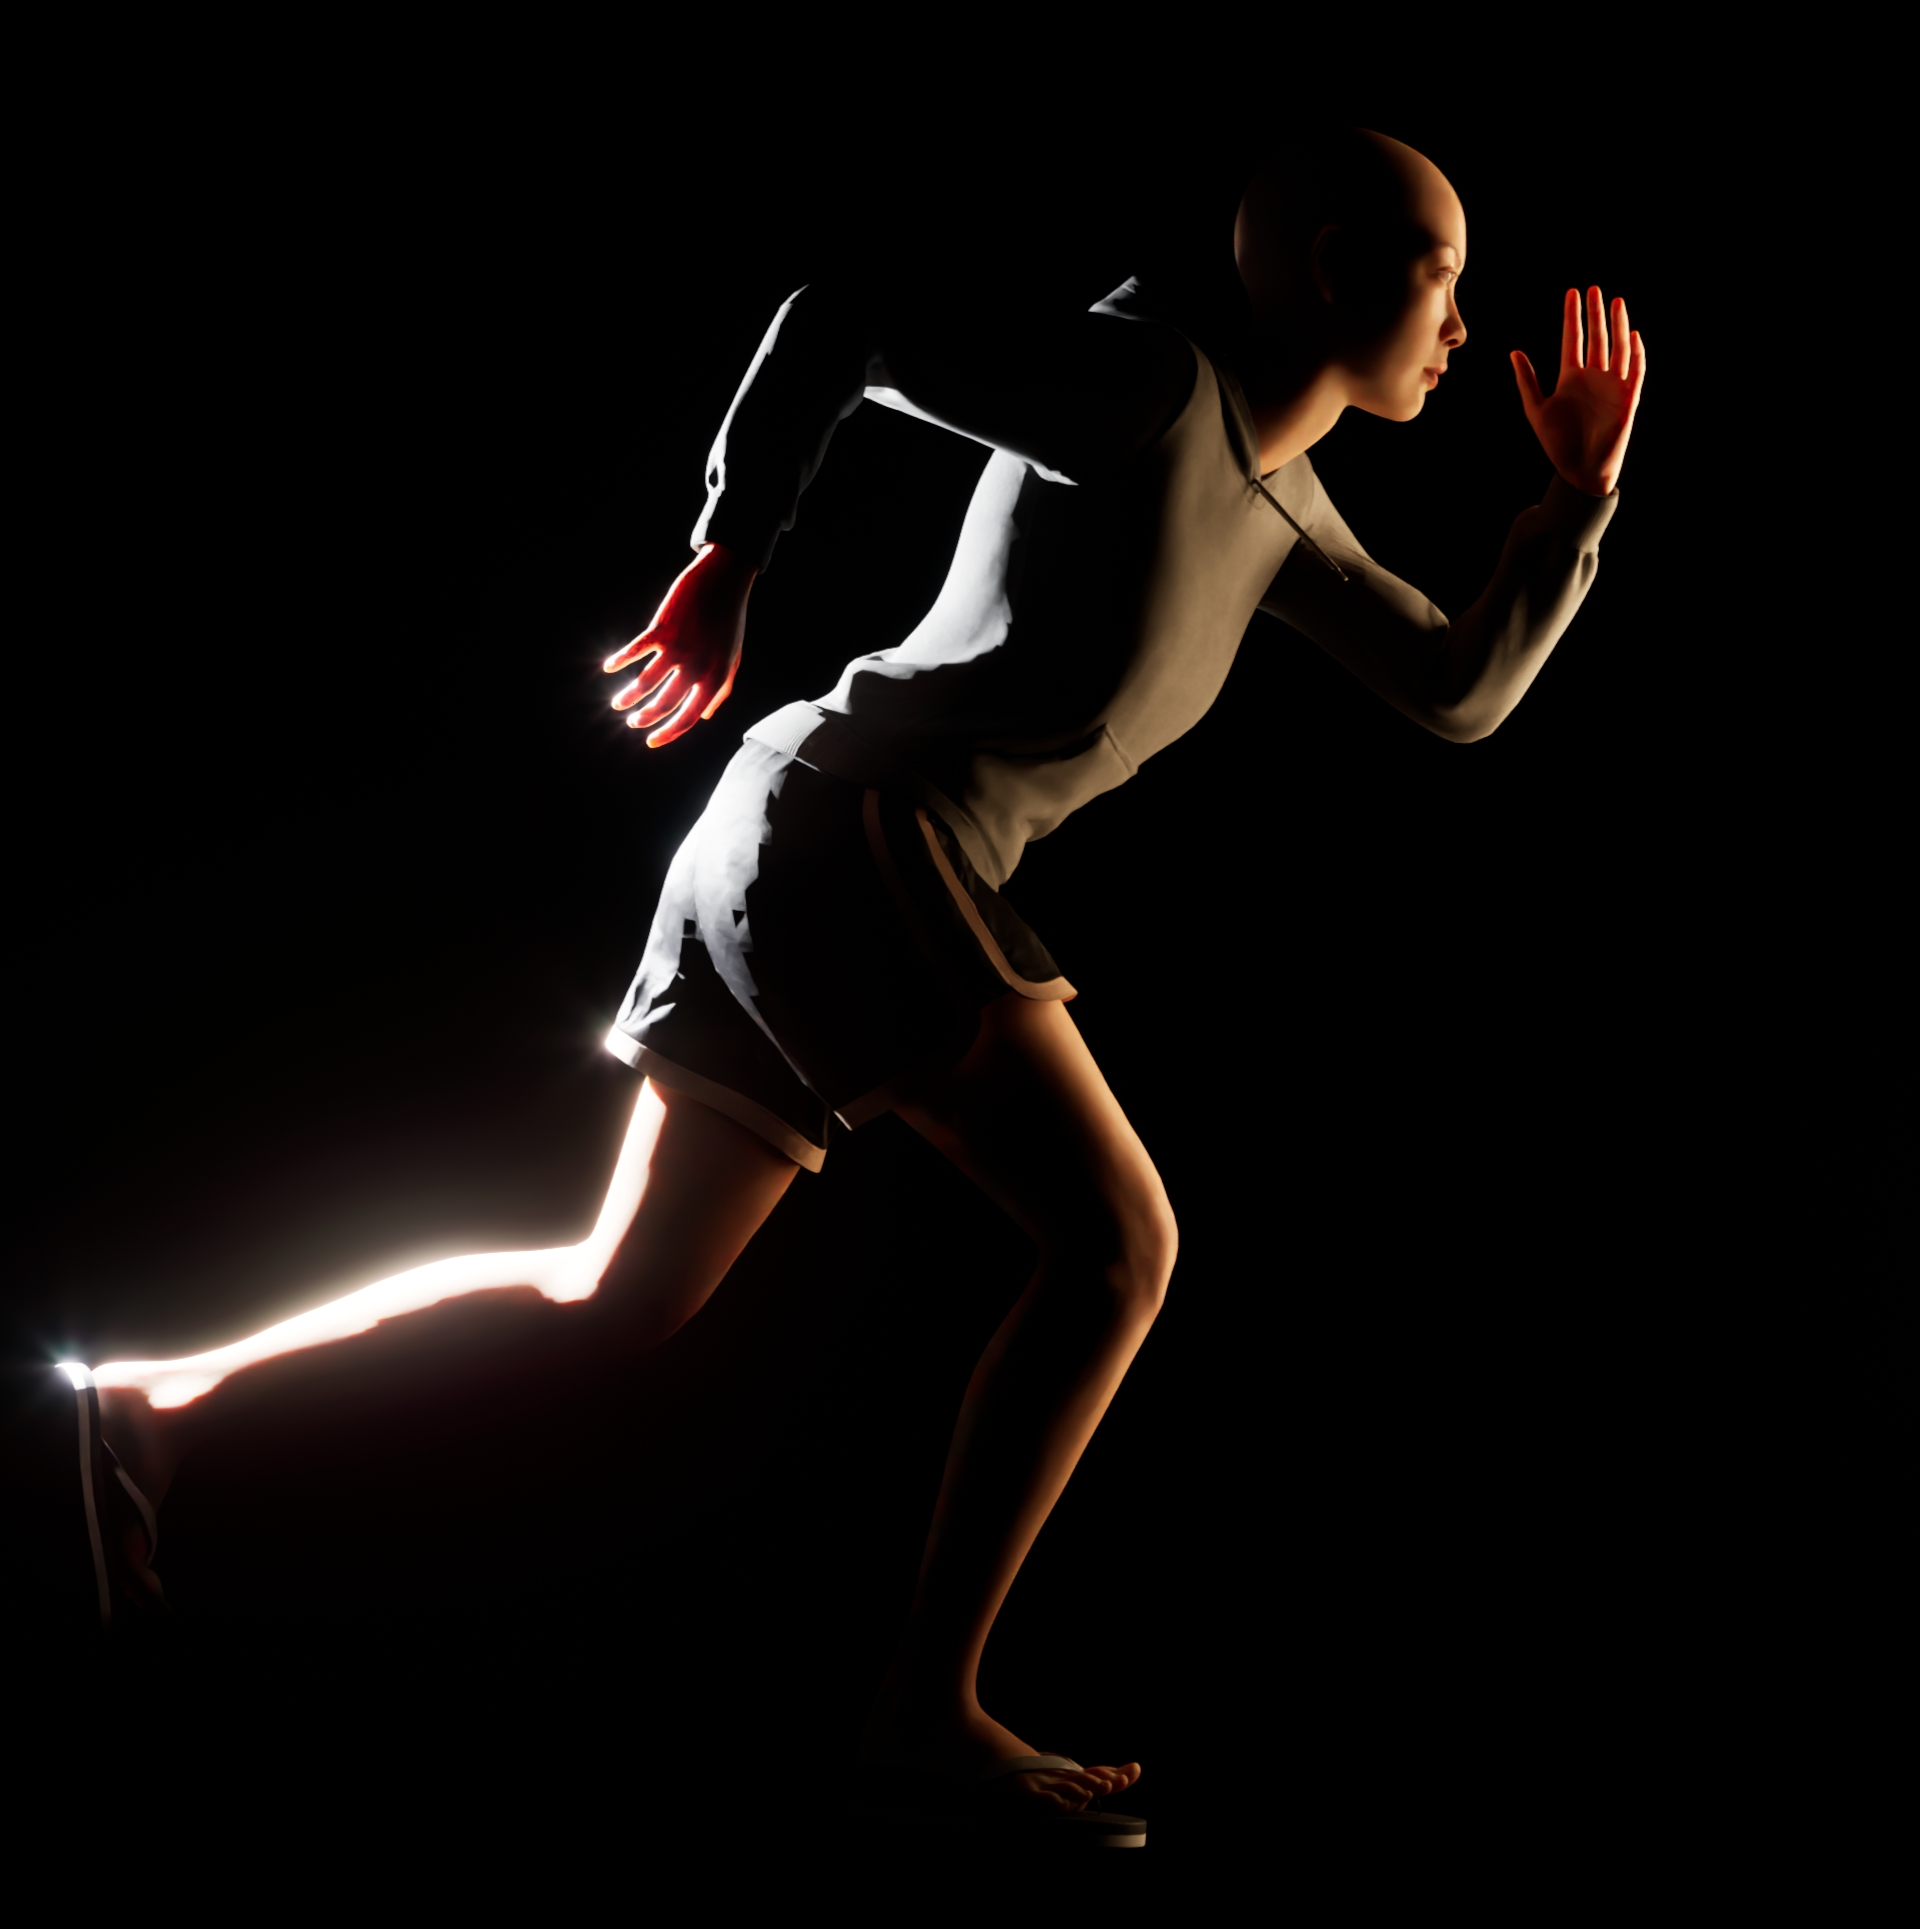
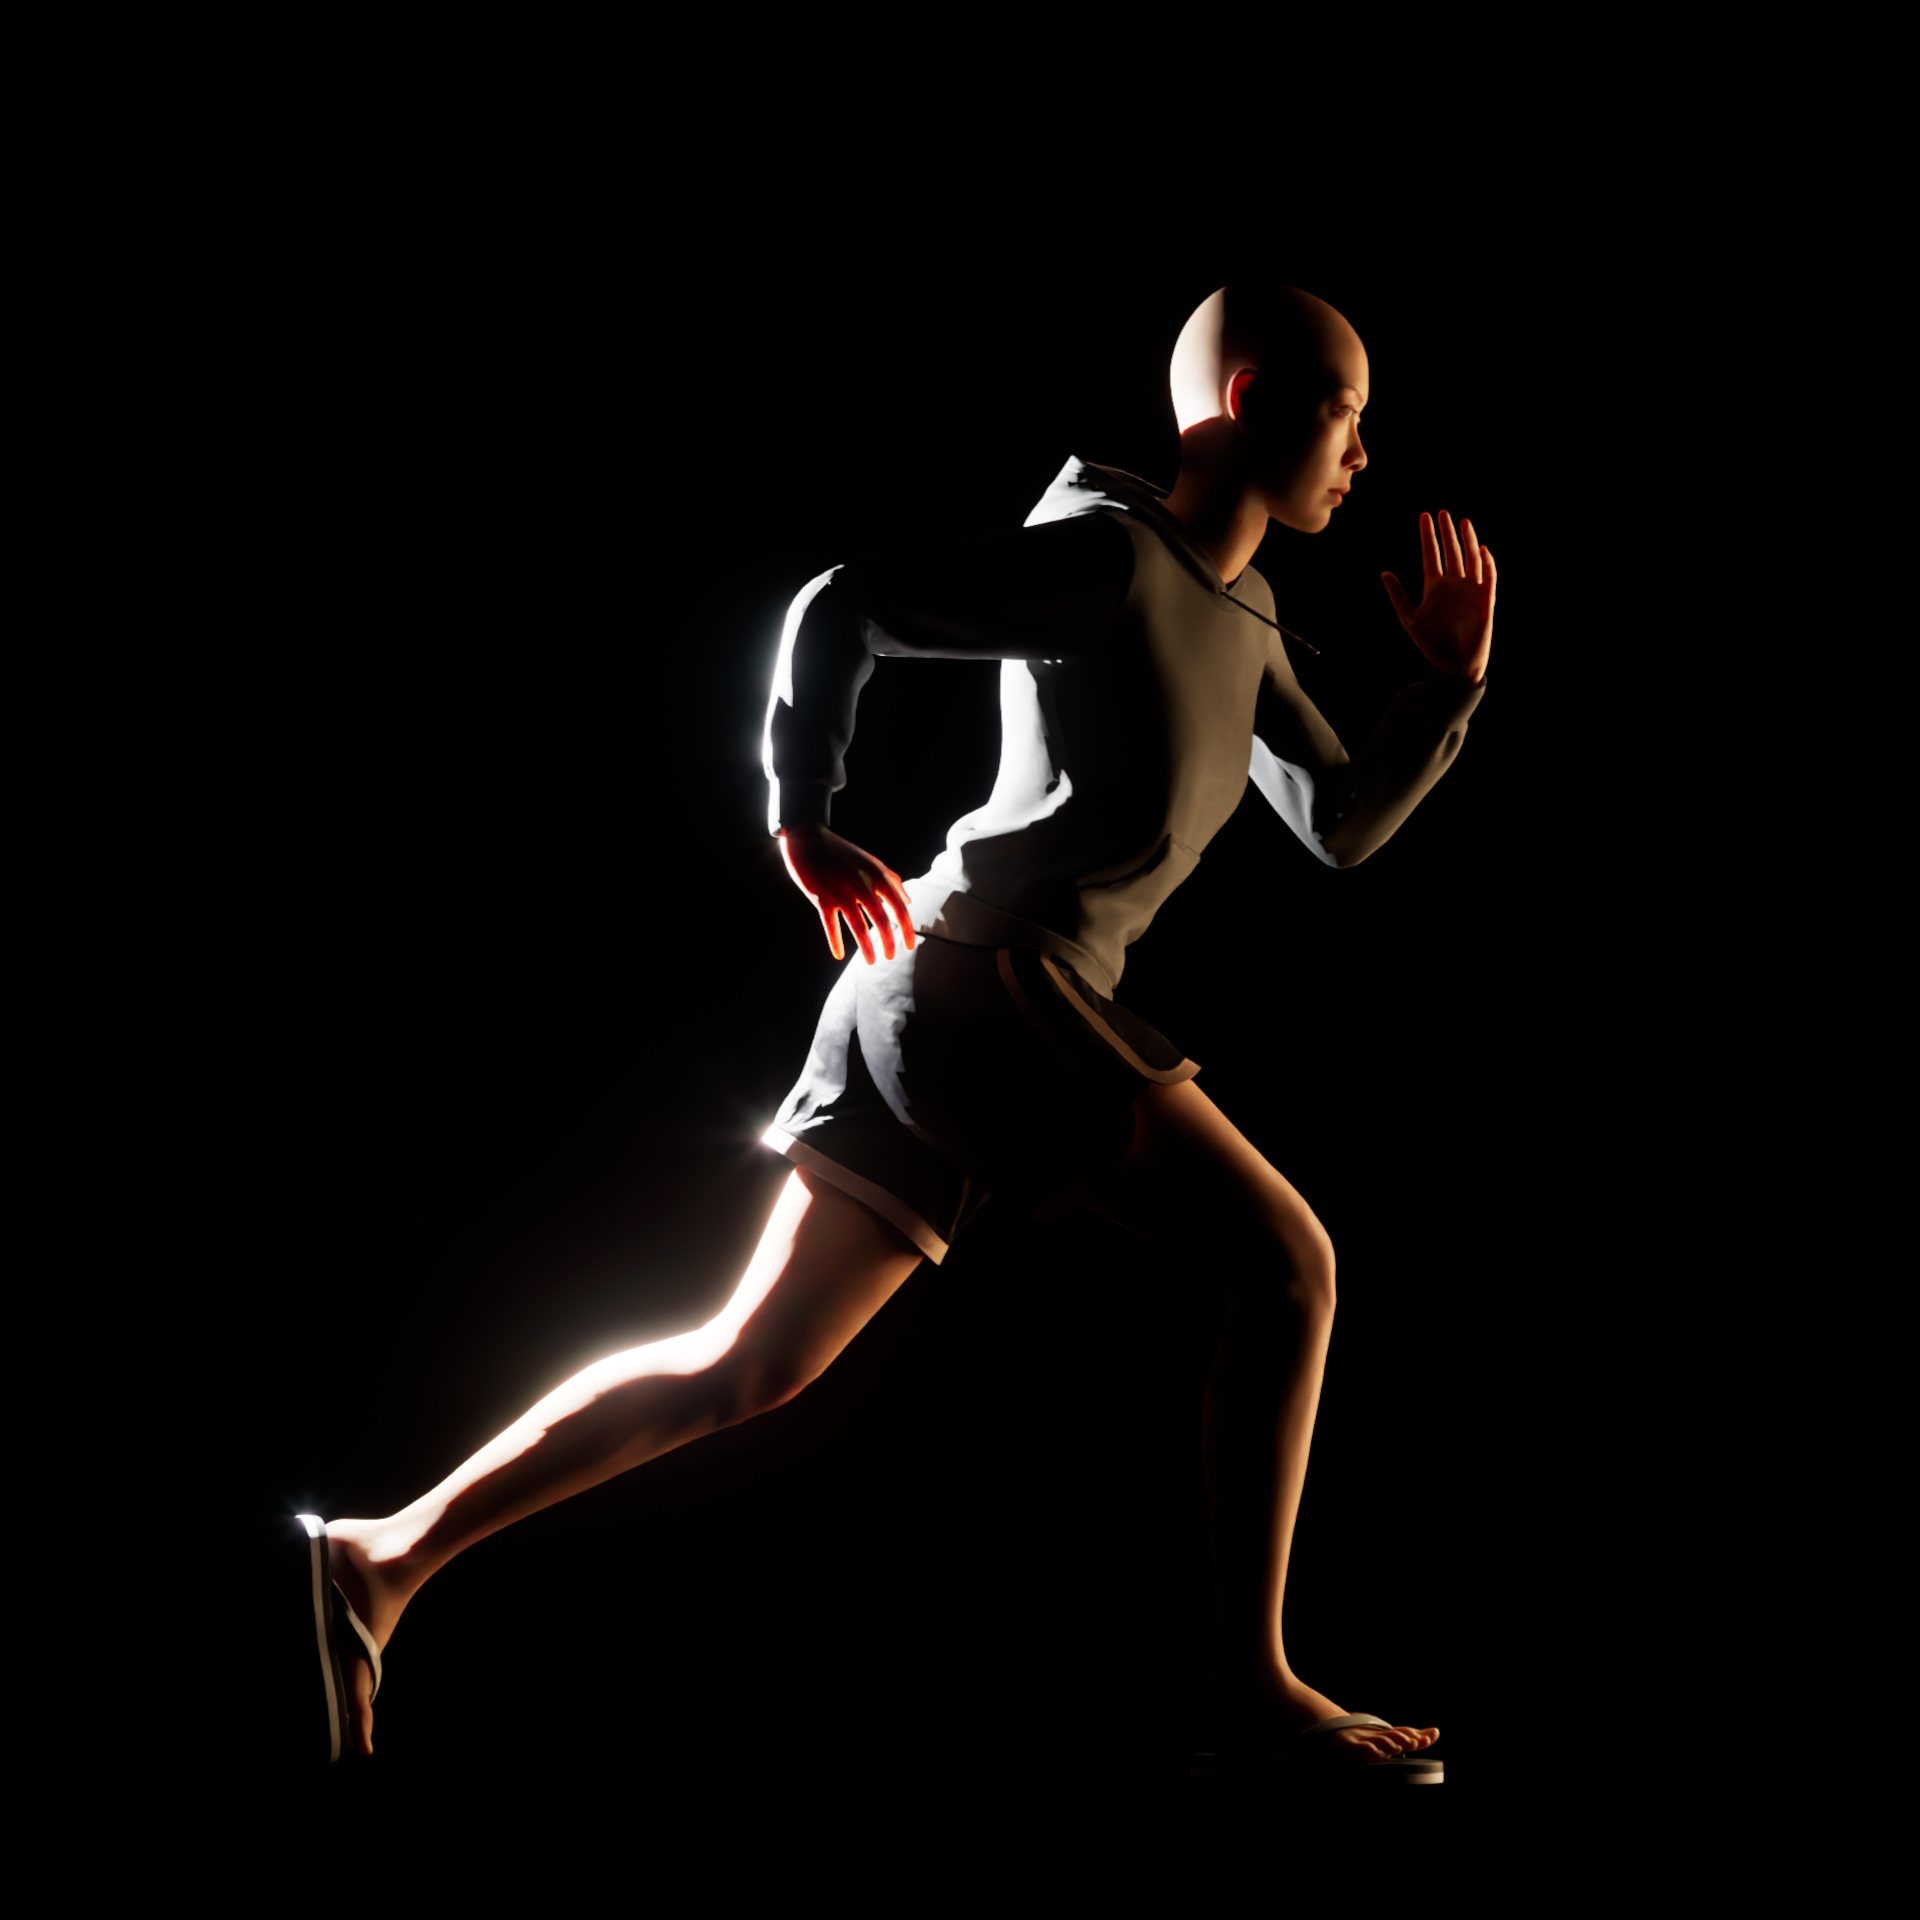
Add main image

diff --git a/locomotion.html b/locomotion.html
@@ -49,7 +49,9 @@
       <!-- Main -->
       <div class="project-page" id="main">
         <div class="inner">
-          
+          <span class="image main"
+            ><img src="images/Animation/locomotionBanner.jpg" alt=""
+          /></span>
          <h1>Locomotion System in Unreal Engine</h1>
           <p>
           This project is about implementing a Third Person strafing locomotion system in UE from scratch.</p>
